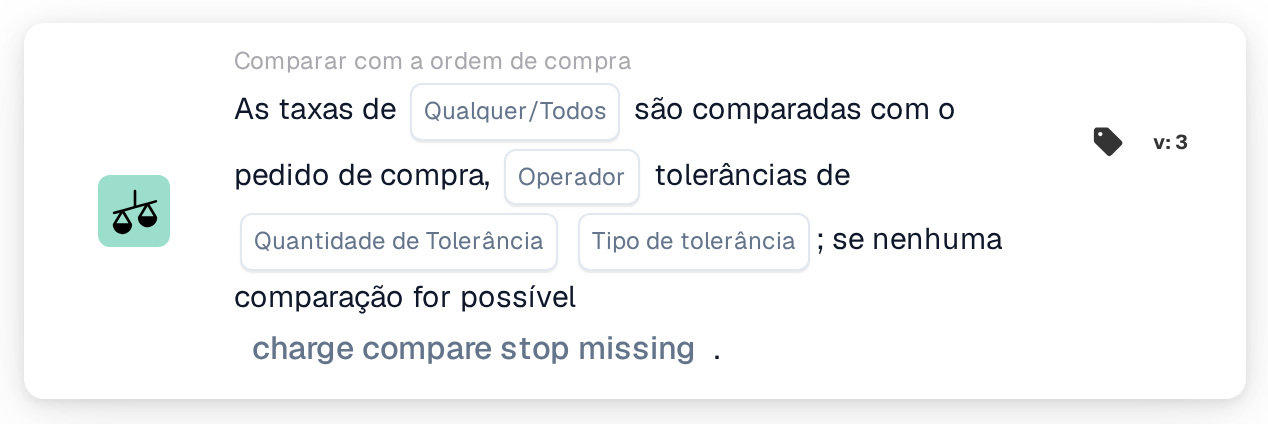
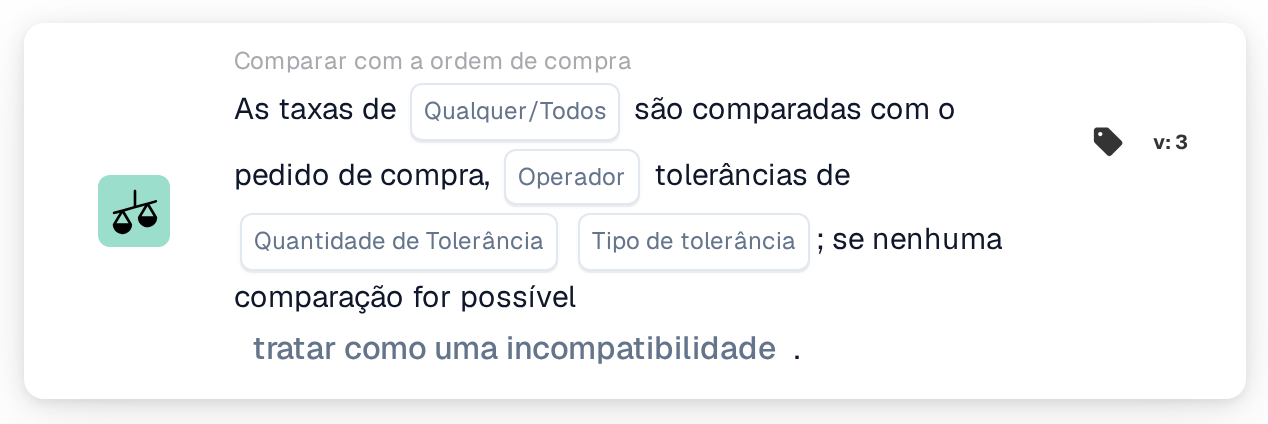
[Documentation_Workflow_Cards] [DRFS-871] add compare charges to po v4

Changed region(s): [[0.1845, 0.7972, 0.6151, 0.8585]]

diff --git a/public_docs/administration-and-setup/workflow/and/compare-with-purchase-order/any-all-charges.md b/public_docs/administration-and-setup/workflow/and/compare-with-purchase-order/any-all-charges.md
@@ -4,13 +4,15 @@
 
 <figure><img src="../../../../.gitbook/assets/workflow_card_condition_compare_charges_to_po_v3-pt-pt.png" alt="Qualquer/todas as cobranças, Versão 3" width="634"><figcaption><p>Versão 3</p></figcaption></figure>
 
+<figure><img src="../../../../.gitbook/assets/workflow_card_condition_compare_charges_to_po_v4-pt-pt.png" alt="Comparar com a ordem de compra: As taxas de Qualquer/Todos são comparadas com o pedido de compra, Operador tolerâncias de Quantidade de Tolerância Tipo de tolerância; uma taxa de 0,00 também é comparada; se nenhuma comparação for possível tratar como uma incompatibilidade, Versão 4" width="634"><figcaption><p>Versão 4</p></figcaption></figure>
+
 ## **Objetivo:**
 
-Este cartão de fluxo de trabalho compara os encargos adicionais de um documento com os encargos adicionais da ordem de compra correspondente, dentro de uma tolerância definida. Responde a uma única pergunta: o documento e a ordem de compra concordam quanto aos encargos adicionais? É comparado cada encargo que a correspondência da ordem de compra emparelhou, pelo que não é necessário indicar qualquer nome de campo no cartão.
+Este cartão de Workflow compara os encargos adicionais de um documento com os encargos adicionais da ordem de compra correspondente, dentro de uma tolerância definida. Responde a uma única pergunta: o documento e a ordem de compra concordam quanto aos encargos adicionais? É comparado cada encargo que a correspondência da ordem de compra emparelhou, pelo que não é necessário indicar qualquer nome de campo no cartão.
 
 Este cartão distingue-se de **Comparar cobranças totais**, que compara um único campo do documento com um só encargo identificado por um Charge ID. Utilize este cartão quando todos os encargos emparelhados do documento devam ser verificados de uma só vez.
 
-A correspondência da ordem de compra tem de ser executada antes deste cartão. Se o documento não tiver uma ordem de compra correspondente, o cartão interrompe o fluxo de trabalho e comunica dados ausentes.
+A correspondência da ordem de compra tem de ser executada antes deste cartão. Se o documento não tiver uma ordem de compra correspondente, o cartão interrompe o Workflow e comunica dados ausentes.
 
 ## **Componentes do cartão:**
 
@@ -31,11 +33,11 @@ A correspondência da ordem de compra tem de ser executada antes deste cartão. 
    * **Opções**:
      * **Por cento**: uma percentagem do encargo da ordem de compra.
      * **Valor**: um montante fixo.
-5. **Comportamento de dados ausentes (apenas versão 3):**
-   * **Descrição**: O que fazer quando um encargo existe apenas de um lado, no documento ou na ordem de compra, de modo que não há contraparte com que o comparar. A opção situa-se no fim da frase da versão 3.
+5. **Comportamento de dados ausentes (versões 3 e 4):**
+   * **Descrição**: O que fazer quando um encargo existe apenas de um lado, no documento ou na ordem de compra, de modo que não há contraparte com que o comparar. A opção situa-se no fim da frase.
    * **Opções**:
-     * **tratar como uma incompatibilidade**: o fluxo de trabalho para. É a predefinição.
-     * **ignore e trate como uma correspondência.**: o fluxo de trabalho continua como se o encargo tivesse concordado.
+     * **tratar como uma incompatibilidade**: o Workflow para. É a predefinição.
+     * **ignore e trate como uma correspondência.**: o Workflow continua como se o encargo tivesse concordado.
 
 ## **Funcionalidade:**
 
@@ -43,42 +45,58 @@ O cartão percorre os passos seguintes.
 
 1. **Exige uma ordem de compra correspondente.** Sem ordem de compra correspondente, o cartão para imediatamente e comunica dados ausentes.
 2. **Lê a tolerância** de **Quantidade de Tolerância** e **Tipo de tolerância** no cartão.
-3. **A versão 3 classifica cada linha de ordem de compra emparelhada** numa de quatro situações, perguntando apenas se cada lado tem algum encargo: encargos em ambos os lados, nenhum encargo em qualquer dos lados, encargos apenas no documento, ou encargos apenas na ordem de compra. Uma linha que não possa ser associada aos dados da ordem de compra do documento é um erro de dados e o cartão para.
+3. **As versões 3 e 4 classificam cada linha de ordem de compra emparelhada** numa de quatro situações: encargos em ambos os lados, nenhum encargo em qualquer dos lados, encargos apenas no documento, ou encargos apenas na ordem de compra. A versão 3 pergunta apenas se cada lado tem um encargo superior a 0,00. A versão 4 analisa cada par de encargos e conta 0,00 como um valor; só um encargo sem qualquer montante conta como ausente. Consulte **Diferenças entre versões** abaixo. Uma linha que não possa ser associada aos dados da ordem de compra do documento é um erro de dados e o cartão para.
 4. **Um encargo presente apenas de um lado decide todo o cartão.** Assim que uma linha emparelhada tem encargos de um lado e nenhum do outro, **Comportamento de dados ausentes** decide o resultado e nenhum encargo é comparado, nem mesmo os encargos das linhas corretamente emparelhadas. O operador e a tolerância não são consultados.
-5. **Se nenhuma linha tiver encargos em qualquer dos dois lados**, ambos os lados concordam que não existem encargos adicionais. O operador **Fora** não fica assim satisfeito, porque nada difere além da tolerância, e o fluxo de trabalho para. Qualquer outro operador considera a concordância satisfeita e o fluxo de trabalho continua. **Comportamento de dados ausentes** não tem efeito aqui.
+5. **Se nenhuma linha tiver encargos em qualquer dos dois lados**, ambos os lados concordam que não existem encargos adicionais. O operador **Fora** não fica assim satisfeito, porque nada difere além da tolerância, e o Workflow para. Qualquer outro operador considera a concordância satisfeita e o Workflow continua. **Comportamento de dados ausentes** não tem efeito aqui.
 6. **Caso contrário cada encargo é comparado**, montante do documento contra montante da ordem de compra, com o operador e a tolerância. Um montante de encargo que não seja um número para o cartão com dados ausentes.
-7. **As comparações são reunidas e combinadas uma só vez.** Cada encargo de cada linha emparelhada contribui para um único conjunto de resultados, que a definição **Qualquer/Todos** reduz ao único resultado do cartão. A reunião é à escala do documento, não por linha, pelo que **Qualquer** significa qualquer encargo em qualquer ponto do documento. Se o resultado combinado for verdadeiro o fluxo de trabalho continua, caso contrário para com uma condição não satisfeita.
+7. **As comparações são reunidas e combinadas uma só vez.** Cada encargo de cada linha emparelhada contribui para um único conjunto de resultados, que a definição **Qualquer/Todos** reduz ao único resultado do cartão. A reunião é à escala do documento, não por linha, pelo que **Qualquer** significa qualquer encargo em qualquer ponto do documento. Se o resultado combinado for verdadeiro o Workflow continua, caso contrário para com uma condição não satisfeita.
 
 Vale a pena conhecer três consequências antes de configurar o cartão.
 
 * **dentro de com uma tolerância de 0 exige igualdade exata.** Os dois montantes têm de concordar ao cêntimo.
 * **Um encargo presente apenas de um lado prevalece sobre tudo o resto.** Como o passo 4 é executado antes de qualquer comparação, **ignore e trate como uma correspondência.** também salta a verificação de montantes de cada encargo corretamente emparelhado do documento. Mantenha **tratar como uma incompatibilidade** se os montantes tiverem de ser verificados.
-* **tratar como uma incompatibilidade para o fluxo de trabalho como erro, não como condição não satisfeita.** Apesar da formulação, o cartão comunica dados ausentes, o que o registo do fluxo de trabalho e o teste do cartão mostram em vermelho e não em laranja como uma condição não satisfeita. O fluxo de trabalho para em ambos os casos.
+* **tratar como uma incompatibilidade para o Workflow como erro, não como condição não satisfeita.** Apesar da formulação, o cartão comunica dados ausentes, o que o registo do Workflow e o teste do cartão mostram em vermelho e não em laranja como uma condição não satisfeita. O Workflow para em ambos os casos.
 
 ## **Instalação e configuração:**
 
-Adicione o cartão como condição And após a correspondência da ordem de compra. Escolha se cada encargo ou qualquer encargo tem de satisfazer a comparação, escolha o operador **dentro de** ou **Fora** e introduza a quantidade e o tipo de tolerância. Na versão 3, escolha o que deve acontecer quando os encargos surgem apenas de um lado.
+Adicione o cartão como condição And após a correspondência da ordem de compra. Escolha se cada encargo ou qualquer encargo tem de satisfazer a comparação, escolha o operador **dentro de** ou **Fora** e introduza a quantidade e o tipo de tolerância. Nas versões 3 e 4, escolha o que deve acontecer quando os encargos surgem apenas de um lado.
 
 Para experimentar uma configuração sem esperar por um documento, abra o menu do cartão no Workflow Builder, escolha **Cartão de teste**, escolha um documento e depois **Teste no documento**. O registo do cartão enumera cada encargo comparado com ambos os montantes, o operador e a tolerância utilizada, e registra também qual o valor de **Comportamento de dados ausentes** que decidiu o resultado quando um encargo estava presente apenas de um lado.
 
 ## **Cenário de exemplo:**
 
-Uma confirmação de encomenda tem um encargo de transporte de 100,00 e a linha de ordem de compra correspondente tem o mesmo encargo de transporte de 100,00. Com **Todos**, o operador **dentro de** e uma tolerância de 0 como valor, os montantes são iguais, o cartão fica satisfeito e o fluxo de trabalho continua.
+Uma confirmação de encomenda tem um encargo de transporte de 100,00 e a linha de ordem de compra correspondente tem o mesmo encargo de transporte de 100,00. Com **Todos**, o operador **dentro de** e uma tolerância de 0 como valor, os montantes são iguais, o cartão fica satisfeito e o Workflow continua.
 
-Com 120,00 na confirmação de encomenda contra 100,00 na ordem de compra, a mesma configuração não fica satisfeita e o fluxo de trabalho para com uma condição não satisfeita.
+Com 120,00 na confirmação de encomenda contra 100,00 na ordem de compra, a mesma configuração não fica satisfeita e o Workflow para com uma condição não satisfeita.
 
-Se nem a confirmação de encomenda nem a ordem de compra tiverem qualquer encargo, o operador **dentro de** considera isso concordância e o fluxo de trabalho continua, enquanto **Fora** o para.
+Se nem a confirmação de encomenda nem a ordem de compra tiverem qualquer encargo, o operador **dentro de** considera isso concordância e o Workflow continua, enquanto **Fora** o para.
 
-Se a confirmação de encomenda tiver um encargo de transporte e a ordem de compra nenhum, o operador deixa de se aplicar. Com **tratar como uma incompatibilidade** o fluxo de trabalho para, para que alguém possa verificar por que razão o encargo consta apenas de um lado.
+Se a confirmação de encomenda tiver um encargo de transporte e a ordem de compra nenhum, o operador deixa de se aplicar. Com **tratar como uma incompatibilidade** o Workflow para, para que alguém possa verificar por que razão o encargo consta apenas de um lado.
+
+Se a confirmação de encomenda apresentar o encargo de transporte como 0,00 enquanto a ordem de compra tem 204,00, a versão 4 compara os dois montantes e o Workflow para com uma condição não satisfeita. A versão 3 interpretaria o 0,00 como "nenhum encargo no documento" e deixaria o resultado a **Comportamento de dados ausentes**.
 
 ## **Diferenças entre versões:**
 
-A versão 3 é a que os cartões novos usam. A versão 2 continua suportada nos fluxos de trabalho existentes. Ambas as versões comparam encargo por encargo e combinam os resultados à escala do documento com a definição **Qualquer/Todos**, mas a versão 2 não tem classificação por casos, o que altera o que acontece assim que os encargos não estão presentes em ambos os lados:
+A versão 4 é a que os cartões novos usam. As versões 2 e 3 continuam suportadas nos Workflows existentes.
+
+### Versão 4 comparada com a versão 3
+
+As duas versões têm as mesmas definições e os mesmos passos. Diferem apenas na forma como um encargo de 0,00 é tratado:
+
+* **A versão 3 trata 0,00 como nenhum encargo.** Um encargo do documento de 0,00 emparelhado com um encargo da ordem de compra de 204,00 conta como "a ordem de compra tem encargos, o documento não tem nenhum", pelo que **Comportamento de dados ausentes** decide e os montantes nunca são comparados. Com **ignore e trate como uma correspondência.** o Workflow continua, embora os montantes sejam diferentes.
+* **A versão 4 compara 0,00 como um montante.** O mesmo par é comparado como qualquer outro: 0,00 contra 204,00 não está dentro da tolerância, pelo que o Workflow para com uma condição não satisfeita. Um par com 0,00 em ambos os lados também é comparado e concorda.
+* **Um encargo sem montante continua ausente na versão 4.** Quando um lado de um par não tem qualquer montante, por exemplo um encargo que a ordem de compra não tem, **Comportamento de dados ausentes** decide, tal como na versão 3.
+
+Para obter este comportamento num Workflow existente, substitua o cartão da versão 3 por um cartão da versão 4 e defina os mesmos valores.
+
+### Versão 2
+
+A versão 2 também compara encargo por encargo e combina os resultados à escala do documento com a definição **Qualquer/Todos**, mas não tem classificação por casos, o que altera o que acontece assim que os encargos não estão presentes em ambos os lados:
 
 * A versão 2 não tem a opção **Comportamento de dados ausentes**. A sua frase termina após o tipo de tolerância.
-* A versão 2 não classifica as linhas emparelhadas e por isso não reconhece um encargo que existe apenas de um lado. Compara o montante presente contra o 0,00 mantido para o lado ausente, e o operador decide: **dentro de** não fica satisfeito e o fluxo de trabalho para, **Fora** fica satisfeito e o fluxo de trabalho continua. O registo do cartão mostra a comparação contra 0,00.
+* A versão 2 não classifica as linhas emparelhadas e por isso não reconhece um encargo que existe apenas de um lado. Compara o montante presente contra o 0,00 mantido para o lado ausente, e o operador decide: **dentro de** não fica satisfeito e o Workflow para, **Fora** fica satisfeito e o Workflow continua. O registo do cartão mostra a comparação contra 0,00.
 * Se nenhum dos dois lados tiver encargos, a versão 2 não tem nada a comparar e comunica dados ausentes em vez de considerar a ausência em ambos os lados como concordância.
 
 ## **Conclusão:**
 
-O cartão "Any / All Charges" automatiza a verificação de que os encargos adicionais faturados ou confirmados correspondem aos encargos adicionais encomendados. Como a ausência de encargos em ambos os lados conta como concordância na versão 3, os documentos sem encargos adicionais passam sem intervenção manual, enquanto os encargos que surgem apenas de um lado são retidos para revisão, salvo se isso for deliberadamente permitido.
+O cartão "Any / All Charges" automatiza a verificação de que os encargos adicionais faturados ou confirmados correspondem aos encargos adicionais encomendados. Como a ausência de encargos em ambos os lados conta como concordância nas versões 3 e 4, os documentos sem encargos adicionais passam sem intervenção manual, enquanto os encargos que surgem apenas de um lado são retidos para revisão, salvo se isso for deliberadamente permitido.
